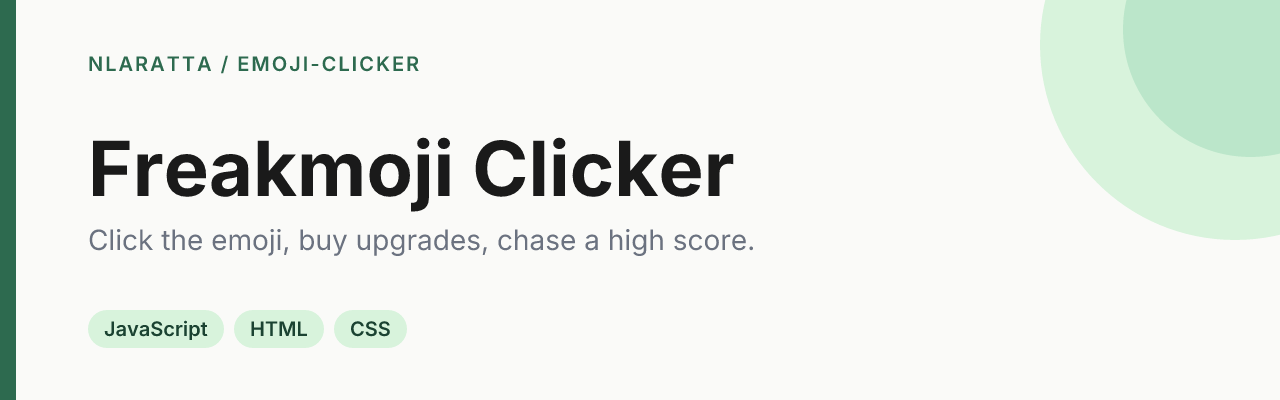
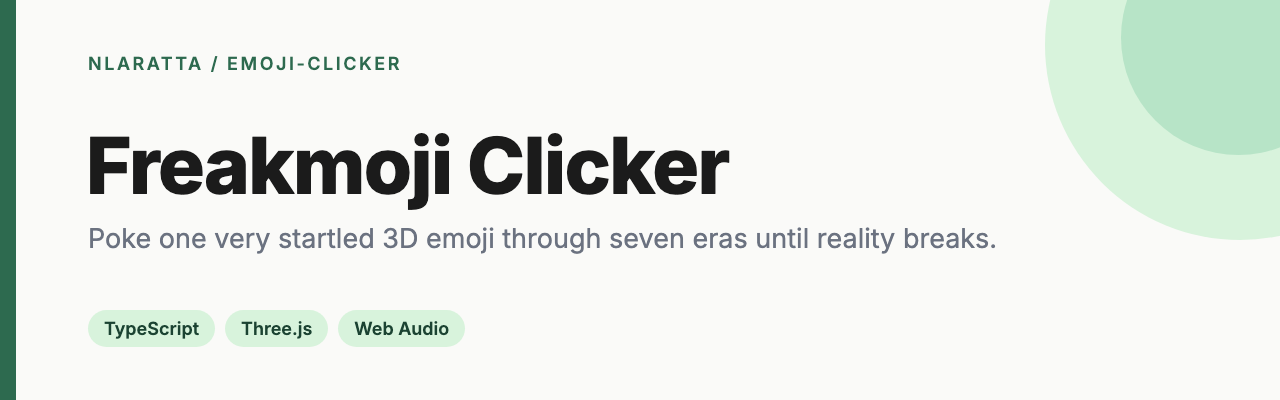
Polish visuals and pacing; add README, screenshots and balance report
Continuous camera FOV, golden Freakmoji kept in frame, calmer chromatic
aberration and flashes, floating-number lanes, Saturn-style neon rings,
darker Reality palette, mobile HUD layout. Softcap the unspent Paranoia
bonus so late timelines plateau. README rewritten for the new game with
regenerated banner, screenshots and an era montage.

diff --git a/src/render/scene.ts b/src/render/scene.ts
@@ -116,7 +116,7 @@ export class GameScene {
     // Golden Freakmoji: a tiny gilded twin that zips around.
     this.golden = new Freakmoji();
     this.golden.setSkinTint(new THREE.Color(1, 0.78, 0.15), 0.85);
-    this.golden.root.scale.setScalar(0.32);
+    this.golden.root.scale.setScalar(0.36);
     this.golden.root.visible = false;
     this.golden.mood = 'freakout';
     scene.add(this.golden.root);
@@ -353,9 +353,9 @@ export class GameScene {
     const emoji = game.state.weapon >= 0 ? WEAPONS[game.state.weapon].emoji : '👊';
     this.strikes.strike(family, emoji, hitWorld, dir, { crit: true, weak: false, power: 1, screen: this.screenUv(hitWorld) });
     this.strikes.strike('explosive', '🥊', hitWorld, dir, { crit: true, weak: false, power: charge, screen: this.screenUv(hitWorld) });
-    this.particles.ring(hitWorld, perfect ? GOLD : new THREE.Color(1, 0.6, 0.3), 7 * Math.max(0.4, charge), 0.6, 4);
+    this.particles.ring(hitWorld, perfect ? GOLD : new THREE.Color(1, 0.6, 0.3), 7 * Math.max(0.4, charge), 0.6, 2.4);
     this.screen.shockwave(this.screenUv(hitWorld), 1.6 * Math.max(0.5, charge));
-    this.screen.flash(perfect ? '#fff2b0' : '#ffffff', perfect ? 0.6 : 0.3);
+    this.screen.flash(perfect ? '#fff2b0' : '#ffffff', perfect ? 0.35 : 0.18);
     this.rig.addTrauma(0.5 + charge * 0.4);
     this.rig.punch(1.6);
     if (perfect) this.floatAt(hitWorld.clone().setY(2.7), 'PERFECT!', { size: 58, color: '#ffd23f', life: 1.6, vy: -50, spread: 0 });
@@ -434,7 +434,7 @@ export class GameScene {
     this.era = era;
     this.world.setEra(era, instant);
     this.rig.drift = era >= 6 ? 1 : 0;
-    this.screen.baseAberration = era >= 6 ? 0.009 : era >= 4 ? 0.006 : 0.004;
+    this.screen.baseAberration = era >= 6 ? 0.007 : era >= 4 ? 0.004 : 0.0025;
     this.screen.baseGlitch = 0;
     if (!instant) {
       this.rig.eraTransition(3.4);
@@ -534,7 +534,13 @@ export class GameScene {
       const fy = 0.7 + ((sd >>> 9) % 100) / 180;
       const ph = (sd % 628) / 100;
       const k = this.goldenAge;
-      this.golden.root.position.set(Math.sin(k * fx + ph) * 3.2, 1.6 + Math.sin(k * fy + ph * 2) * 1.2, 1.2 + Math.cos(k * fx * 0.7 + ph) * 0.8);
+      // Keep the flight path inside the visible frustum (the shop panel narrows it).
+      const cam = this.stage.camera;
+      const depth = Math.max(3, cam.position.z - 1.6);
+      const halfH = depth * Math.tan(THREE.MathUtils.degToRad(cam.fov / 2));
+      const ax = Math.min(3, halfH * cam.aspect * 0.72);
+      const ay = Math.min(0.85, halfH * 0.45);
+      this.golden.root.position.set(Math.sin(k * fx + ph) * ax, 1.3 + Math.sin(k * fy + ph * 2) * ay, 1.4 + Math.cos(k * fx * 0.7 + ph) * 0.5);
       this.golden.root.rotation.y = Math.sin(k * 2) * 0.4;
       this.golden.update(dt);
       if (Math.random() < 0.6) {
@@ -542,16 +548,16 @@ export class GameScene {
         this.particles.glow.spawn({ x: p.x, y: p.y, z: p.z, vx: (Math.random() - 0.5) * 0.4, vy: -0.4, vz: 0, life: 0.6, size: 0.08, sizeEnd: 0.01, r: 4, g: 3, b: 0.8, shape: Shape.Star });
       }
       const left = this.goldenLife - this.goldenAge;
-      this.golden.root.scale.setScalar(0.32 * (left < 1 ? Math.max(0.05, left) : Math.min(1, this.goldenAge * 3)));
+      this.golden.root.scale.setScalar(0.36 * (left < 1 ? Math.max(0.05, left) : Math.min(1, this.goldenAge * 3)));
     }
 
     // Freak Out: confetti of panic.
     if (freaking) {
-      this.freakoutConfetti += dtReal * 6;
+      this.freakoutConfetti += dtReal * 8;
       while (this.freakoutConfetti > 1) {
         this.freakoutConfetti -= 1;
         const e = ['😱', '😳', '💥', '❗', '🫨'][Math.floor(Math.random() * 5)];
-        this.fly.toss(e, (Math.random() - 0.5) * 6, 4.5, (Math.random() - 0.5) * 2, (Math.random() - 0.5) * 2, 0, 0, { life: 1.6, scale0: 0.4, scale1: 0.3, gravity: 3 });
+        this.fly.toss(e, (Math.random() - 0.5) * 4.5, 3.6, 0.5 + Math.random() * 1.5, (Math.random() - 0.5) * 2, 0.5, 0, { life: 1.8, scale0: 0.7, scale1: 0.45, gravity: 2.5 });
       }
       this.screen.tint.set(1.15, 0.85, 1.05, 0.35 + Math.sin(t * 8) * 0.1);
     } else this.screen.tint.w = Math.max(0, this.screen.tint.w - dtReal * 2);

diff --git a/scripts/screenshots.ts b/scripts/screenshots.ts
@@ -1,0 +1,99 @@
+/**
+ * Regenerates the README screenshots from a running dev server:
+ *   pnpm dev   (in another terminal)   then   pnpm screenshots
+ * Writes docs/screenshot.jpg and docs/mobile.jpg, plus per-era tiles in
+ * test-results/eras/ that are stitched into docs/eras.jpg with ImageMagick
+ * (if `magick` is installed).
+ */
+import { chromium, type Page } from '@playwright/test';
+import { mkdirSync } from 'node:fs';
+import { execFileSync } from 'node:child_process';
+
+const URL = process.env.URL ?? 'http://localhost:5199/';
+const TILES = 'test-results/eras';
+mkdirSync(TILES, { recursive: true });
+
+async function open(page: Page): Promise<void> {
+  await page.goto(URL);
+  await page.evaluate(() => {
+    const w = window as any;
+    w.freakmoji.dev.noSave();
+    localStorage.clear();
+    localStorage.setItem('freakmoji.settings', JSON.stringify({ quality: 'high', muted: true }));
+  });
+  await page.goto(URL);
+  await page.locator('.title-screen .start').click();
+  await page.waitForTimeout(800);
+}
+
+const browser = await chromium.launch({ args: ['--ignore-gpu-blocklist', '--enable-gpu'] });
+
+// Hero: mid-era action with minions, a Freak Out and a golden Freakmoji.
+{
+  const page = await browser.newPage({ viewport: { width: 1600, height: 1000 } });
+  await open(page);
+  await page.evaluate(() => {
+    const f = (window as any).freakmoji;
+    f.dev.noSave();
+    f.dev.era(3);
+    f.dev.weapon(20);
+    for (const id of ['monkey', 'gorilla', 'trebuchet', 'knight', 'steam', 'factory', 'turret', 'jet']) f.game.state.producers[id] = 6;
+    f.game.refresh();
+    f.dev.gasps(4.2e9);
+    f.game.state.upgrades.w_anatomy = true;
+    f.game.refresh();
+    f.game.state.nextGoldenAt = f.game.state.time + 0.1;
+    f.game.state.nextWeakSpotAt = f.game.state.time + 0.1;
+  });
+  await page.waitForTimeout(2500);
+  const box = (await page.locator('.stage').boundingBox())!;
+  for (let i = 0; i < 9; i++) {
+    await page.mouse.click(box.x + box.width / 2 + (i % 3 - 1) * 40, box.y + box.height * 0.46 + (i % 2) * 30);
+    await page.waitForTimeout(70);
+  }
+  await page.waitForTimeout(120);
+  await page.screenshot({ path: 'docs/screenshot.jpg', type: 'jpeg', quality: 86 });
+  await page.close();
+}
+
+// Every era, HUD hidden, for the montage.
+{
+  const page = await browser.newPage({ viewport: { width: 960, height: 600 } });
+  await open(page);
+  await page.addStyleTag({ content: '.hud, .panel, .toasts { display: none !important; } #app { grid-template-columns: 1fr !important; }' });
+  for (let era = 0; era < 7; era++) {
+    await page.evaluate((e) => (window as any).freakmoji.dev.era(e), era);
+    await page.waitForTimeout(1800);
+    await page.screenshot({ path: `${TILES}/era-${era + 1}.png` });
+  }
+  await page.close();
+}
+
+// Mobile.
+{
+  const page = await browser.newPage({ viewport: { width: 390, height: 844 }, deviceScaleFactor: 1, isMobile: true, hasTouch: true });
+  await open(page);
+  await page.evaluate(() => {
+    const f = (window as any).freakmoji;
+    f.dev.era(4);
+    f.game.state.producers.drone = 8;
+    f.game.state.producers.monkey = 5;
+    f.game.refresh();
+    f.dev.gasps(2.5e11);
+  });
+  await page.waitForTimeout(2500);
+  await page.screenshot({ path: 'docs/mobile.jpg', type: 'jpeg', quality: 86 });
+  await page.close();
+}
+
+await browser.close();
+
+try {
+  const t = (n: number): string => `${TILES}/era-${n}.png`;
+  execFileSync('magick', [t(1), t(2), t(3), t(4), '-resize', '480x300', '+append', `${TILES}/row1.png`]);
+  execFileSync('magick', [t(5), t(6), t(7), '-resize', '480x300', '+append', '-background', '#1d1233', '-gravity', 'center', '-extent', '1920x300', `${TILES}/row2.png`]);
+  execFileSync('magick', [`${TILES}/row1.png`, `${TILES}/row2.png`, '-append', '-quality', '82', 'docs/eras.jpg']);
+} catch {
+  console.warn('ImageMagick not found; era tiles left in', TILES);
+}
+console.log('screenshots written to docs/');

diff --git a/src/render/floaters.ts b/src/render/floaters.ts
@@ -35,6 +35,10 @@ export class Floaters {
   private w = 1;
   private h = 1;
   enabled = true;
+  /** Rotating lanes so rapid numbers fan out instead of stacking. */
+  private lane = 0;
+  private lastSpawn = 0;
+  private clock = 0;
   font = '"Bungee", "Arial Black", system-ui, sans-serif';
 
   constructor(canvas: HTMLCanvasElement, capacity = 70) {
@@ -59,10 +63,19 @@ export class Floaters {
     let f = this.pool.find((p) => !p.active);
     if (!f) f = this.pool.reduce((a, b) => (a.age / a.life > b.age / b.life ? a : b));
     const spread = o.spread ?? 90;
+    let lx = 0;
+    let ly = 0;
+    if (spread > 0) {
+      this.lane = this.clock - this.lastSpawn < 0.25 ? (this.lane + 1) % 6 : 0;
+      this.lastSpawn = this.clock;
+      const LANES = [0, -1, 1, -2, 2, 0];
+      lx = LANES[this.lane] * spread * 0.45;
+      ly = -Math.floor(this.lane / 2) * 18;
+    }
     Object.assign(f, {
       active: true,
-      x: x + (Math.random() - 0.5) * spread,
-      y: y + (Math.random() - 0.5) * spread * 0.4,
+      x: x + lx + (Math.random() - 0.5) * spread * 0.3,
+      y: y + ly + (Math.random() - 0.5) * spread * 0.2,
       vx: (Math.random() - 0.5) * 70,
       vy: o.vy ?? -140,
       age: 0,
@@ -77,6 +90,7 @@ export class Floaters {
   }
 
   update(dt: number): void {
+    this.clock += dt;
     const ctx = this.ctx;
     ctx.setTransform(this.dpr, 0, 0, this.dpr, 0, 0);
     ctx.clearRect(0, 0, this.w, this.h);

diff --git a/src/render/strikes.ts b/src/render/strikes.ts
@@ -96,7 +96,7 @@ export class Strikes {
           // Ejected casing.
           p.matter.spawn({ x: from.x * 0.7, y: from.y, z: from.z * 0.7, vx: -side * 1.5, vy: 3, vz: 0.5, life: 0.8, size: 0.05, r: 0.95, g: 0.75, b: 0.3, gravity: 14, shape: Shape.Chunk });
         }
-        this.fly.toss(emoji, hit.x + side * 1.4, hit.y + 0.2, hit.z + 1.6, -side * 0.5, 0.6, 0, { life: 0.35, scale0: 0.5, scale1: 0.55, gravity: 0, spin: 0 });
+        this.fly.toss(emoji, hit.x + side * 1.3, hit.y + 0.3, hit.z + 0.9, -side * 0.5, 0.6, 0, { life: 0.35, scale0: 0.4, scale1: 0.45, gravity: 0, spin: 0 });
         p.flash(out, new THREE.Color(1, 0.9, 0.5), 0.5, 0.08, 5);
         break;
       }
@@ -108,7 +108,7 @@ export class Strikes {
           p.glow.spawn({
             x: out.x, y: out.y, z: out.z,
             vx: Math.cos(th) * Math.sin(ph) * v, vy: Math.cos(ph) * v + 0.5, vz: Math.sin(th) * Math.sin(ph) * v + 1,
-            life: 0.45 + Math.random() * 0.3, size: 0.45 * scale, sizeEnd: 0.1, r: 3.6, g: 1.4 + Math.random(), b: 0.3, drag: 3.5, shape: Shape.Glow,
+            life: 0.4 + Math.random() * 0.3, size: 0.28 * Math.min(scale, 1.6), sizeEnd: 0.06, r: 2.4, g: 0.9 + Math.random() * 0.7, b: 0.2, drag: 3.5, shape: Shape.Glow,
           });
         }
         p.smoke(out, Math.round(5 * scale), new THREE.Color(0x3a3230), { size: 0.4, sizeEnd: 1.6, life: 1.2 });

diff --git a/src/render/eraProps.ts b/src/render/eraProps.ts
@@ -503,17 +503,6 @@ function modern(ctx: PropContext): PropSet {
   pad.position.y = 0.207;
   set.add(pad, 0.3, 0);
 
-  // Barriers
-  const sandbag = new THREE.MeshStandardMaterial({ color: 0x8a7a5a, roughness: 1 });
-  const bags: THREE.Matrix4[] = [];
-  for (let side = -1; side <= 1; side += 2) {
-    for (let i = 0; i < 7; i++) {
-      const a = side * (0.95 + i * 0.13) + Math.PI;
-      bags.push(mtx(Math.sin(a) * 3.6, 0.22, Math.cos(a) * -3.6 * -1, 0.35, 0.22, 0.25, 0, a, 0));
-    }
-  }
-  set.add(instanced(new THREE.CapsuleGeometry(1, 1.2, 3, 8).rotateZ(Math.PI / 2), sandbag, bags), 2);
-
   const heli = addSprite(set, ctx, '🚁', 0, 12, -20, 3);
   set.onUpdate((_dt, t) => {
     heli.x = Math.sin(t * 0.25) * 16;
@@ -531,7 +520,8 @@ function future(ctx: PropContext): PropSet {
   for (let i = 0; i < 12; i++) {
     const a = (i / 12) * Math.PI * 2 + 0.26;
     const d = 10;
-    if (Math.cos(a) > 0.8) continue;
+    // Keep the line of sight clear: nothing directly in front of or behind the star.
+    if (Math.abs(Math.sin(a)) < 0.35) continue;
     const col = i % 2 === 0 ? new THREE.Color(0.2, 2.6, 3.0) : new THREE.Color(3.0, 0.4, 2.4);
     const m = new THREE.Mesh(new THREE.BoxGeometry(0.22, 7, 0.22), new THREE.MeshBasicMaterial({ color: col }));
     m.position.set(Math.sin(a) * d, 3.5, Math.cos(a) * d);

diff --git a/src/ui/shop.ts b/src/ui/shop.ts
@@ -3,7 +3,7 @@ import type { Game } from '../sim/game';
 import { WEAPONS } from '../content/weapons';
 import { PRODUCERS } from '../content/producers';
 import { UPGRADES, type UpgradeDef, type UpgradeKind } from '../content/upgrades';
-import { NODES, NODE_BY_ID, UNSPENT_BONUS, type NodeDef } from '../content/paranoia';
+import { NODES, NODE_BY_ID, UNSPENT_BONUS, UNSPENT_SOFTCAP, unspentBonus, type NodeDef } from '../content/paranoia';
 import { ACHIEVEMENTS, ACHIEVEMENT_BONUS } from '../content/achievements';
 import { ERAS } from '../content/eras';
 import { fmt, fmtRate, fmtTime, fmtPct } from '../core/format';
@@ -395,7 +395,7 @@ export class Shop {
     this.body.append(card);
     this.refreshers.push(() => {
       setText(unspent, `${fmt(s.paranoia)} 🫣`);
-      setText(bonus, `Each unspent point adds +${UNSPENT_BONUS * 100}% to all gasps (now +${fmt(s.paranoia * UNSPENT_BONUS * 100)}%). Spending points buys permanent fears below; you can only get them back when you collapse.`);
+      setText(bonus, `Each unspent point adds +${UNSPENT_BONUS * 100}% to all gasps, tapering after ${UNSPENT_SOFTCAP} (now +${fmt(unspentBonus(s.paranoia) * 100)}%). Spending points buys permanent fears below; you can only get them back when you collapse.`);
     });
 
     const actions = h('div', { class: 'collapse-actions' });

diff --git a/scripts/balance.ts b/scripts/balance.ts
@@ -22,6 +22,20 @@ out(`# Balance report`);
 out();
 out(`Generated by \`pnpm balance ${hours}\`: ${hours}h of simulated play per style, using the real game simulation.`);
 out();
+out('## Pacing targets');
+out();
+out('| Milestone | Intensive (8 pokes/s) | Casual (4 pokes/s, half the time) | Mostly idle |');
+out('|---|---|---|---|');
+out('| First boss (Era II) | ~1 min | ~3–4 min | ~20 min |');
+out('| Era IV (prestige unlocks) | ~10 min | ~20 min | ~1.5 h |');
+out('| Era V | ~30 min | ~1–1.5 h | ~3.5 h |');
+out('| Era VII | ~2 h | ~5–7 h (faster with prestige) | — |');
+out();
+out('Design notes: clicking dominates the first minutes; from Era III on, minions and "% of production" pokes carry the');
+out('economy so idle play stays viable (roughly 3× slower than casual). Bosses are real gates: they need ~15–25% of the era');
+out('threshold in gasps within 30 s, so players occasionally have to build up and retry. Paranoia (prestige) is cube-root of');
+out('lifetime gasps, and the unspent bonus is softcapped past 250 points so late timelines plateau instead of exploding.');
+out();
 
 const rows: string[][] = [];
 for (const [key, style] of Object.entries(PLAYSTYLES)) {

diff --git a/src/content/paranoia.ts b/src/content/paranoia.ts
@@ -3,7 +3,8 @@ import type { Modifiers } from '../sim/modifiers';
 /**
  * Collapsing a timeline wipes the run, but the Freakmoji keeps its fear.
  * Paranoia is the prestige currency. Every UNSPENT point gives +3% to all
- * gasps; spending points buys permanent nodes that change how you play.
+ * gasps (softcapped past 250); spending points buys permanent nodes that
+ * change how you play.
  * Nodes can only be refunded at the moment of collapse, so each timeline
  * commits to a build: Twitchy (active), Brooding (idle) or Unhinged (chaos).
  */
@@ -22,6 +23,14 @@ export interface NodeDef {
 }
 
 export const UNSPENT_BONUS = 0.03;
+/** Beyond this many unspent points the bonus grows with the square root. */
+export const UNSPENT_SOFTCAP = 250;
+
+/** Total multiplier bonus from unspent Paranoia (e.g. 0.6 = +60%). */
+export function unspentBonus(points: number): number {
+  if (points <= UNSPENT_SOFTCAP) return UNSPENT_BONUS * points;
+  return UNSPENT_BONUS * UNSPENT_SOFTCAP * Math.sqrt(points / UNSPENT_SOFTCAP);
+}
 /** Lifetime gasps at which the first Paranoia point is earned. */
 export const PARANOIA_BASE = 1e8;
 

diff --git a/src/render/stage.ts b/src/render/stage.ts
@@ -95,8 +95,11 @@ export class Stage {
     const bloomScale = this.tier === 'high' ? 0.5 : 0.35;
     this.bloom.resolution.set(this.width * pr * bloomScale, this.height * pr * bloomScale);
     this.camera.aspect = this.width / this.height;
-    // Pull back on tall (portrait) screens so the star still fits.
-    this.camera.fov = this.camera.aspect < 0.8 ? 50 : this.camera.aspect < 1.2 ? 42 : 36;
+    // Keep the horizontal framing constant on narrow screens (continuous, so
+    // resizing never jumps): 36° vertical at 1.5:1 and wider, more as it narrows.
+    const hHalf = Math.atan(Math.tan(THREE.MathUtils.degToRad(18)) * 1.5);
+    const vHalf = Math.atan(Math.tan(hHalf) / Math.min(1.5, this.camera.aspect));
+    this.camera.fov = Math.min(64, THREE.MathUtils.radToDeg(vHalf * 2));
     if (this.viewShift !== 0) {
       this.camera.setViewOffset(this.width, this.height, -this.viewShift, 0, this.width, this.height);
     } else {

diff --git a/src/sim/economy.ts b/src/sim/economy.ts
@@ -1,7 +1,7 @@
 import { safe } from '../core/math';
 import { PRODUCERS, COST_GROWTH, type ProducerDef } from '../content/producers';
 import { UPGRADES } from '../content/upgrades';
-import { NODES, NODE_BY_ID, UNSPENT_BONUS, PARANOIA_BASE } from '../content/paranoia';
+import { NODES, NODE_BY_ID, PARANOIA_BASE, unspentBonus } from '../content/paranoia';
 import { ACHIEVEMENT_BONUS } from '../content/achievements';
 import { WEAPONS, weaponDamage } from '../content/weapons';
 import { baseModifiers, type Modifiers } from './modifiers';
@@ -17,7 +17,7 @@ export function computeModifiers(s: GameState): Modifiers {
   for (const n of NODES) if (s.nodes[n.id]) n.apply(m);
   for (const u of UPGRADES) if (s.upgrades[u.id]) u.apply(m, s);
   m.globalMult *= 1 + ACHIEVEMENT_BONUS * Object.keys(s.achievements).length;
-  m.globalMult *= 1 + UNSPENT_BONUS * s.paranoia;
+  m.globalMult *= 1 + unspentBonus(s.paranoia);
   return m;
 }
 

diff --git a/src/render/fx.ts b/src/render/fx.ts
@@ -139,7 +139,7 @@ export class ScreenFX {
 
   aberration(x: number): void {
     if (this.prefs.reducedMotion) return;
-    this.ab = Math.min(0.03, this.ab + x * 2.5);
+    this.ab = Math.min(0.012, this.ab + x * 1.2);
   }
 
   glitchBurst(amount: number, hold = 0.3): void {
@@ -157,7 +157,7 @@ export class ScreenFX {
   update(dt: number, time: number): void {
     for (const w of this.waves) if (w.z >= 0) w.z = w.z > 1.2 ? -1 : w.z + dt;
     this.flashAmt = Math.max(0, this.flashAmt - dt * 3.2);
-    this.ab = Math.max(0, this.ab - dt * 0.06);
+    this.ab = Math.max(0, this.ab - dt * 0.04);
     this.glitchHold = Math.max(0, this.glitchHold - dt);
     if (this.glitchHold <= 0) this.glitch = Math.max(0, this.glitch - dt * 3);
     const u = this.u;

diff --git a/src/render/themes.ts b/src/render/themes.ts
@@ -115,7 +115,7 @@ export const THEMES: Theme[] = [
   {
     skyTop: 0x04121c, skyHorizon: 0x5a1aa8, skyBottom: 0x1a0030,
     sunDir: [0, 0.5, -0.85], sunColor: 0xffffff, sunSize: 0.05, sunStripes: 0,
-    stars: 0.6, nebula: 0.8, nebA: 0x00ffaa, nebB: 0xff00aa,
+    stars: 0.8, nebula: 0.4, nebA: 0x00c890, nebB: 0xc8008a,
     clouds: 0, cloudColor: 0x000000, ridge: 0, ridgeColor: 0x000000, skyline: 0, warp: 1,
     groundA4: [0, 0, 0, 0], groundB4: [0, 0.35, 1, 0], groundA: 0x0a0a14, groundB: 0x14142a, gridColor: 0x6affd8,
     fog: 0x1a1a3a,
